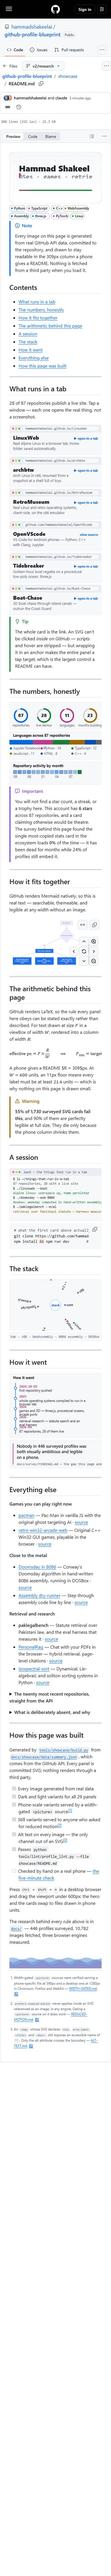
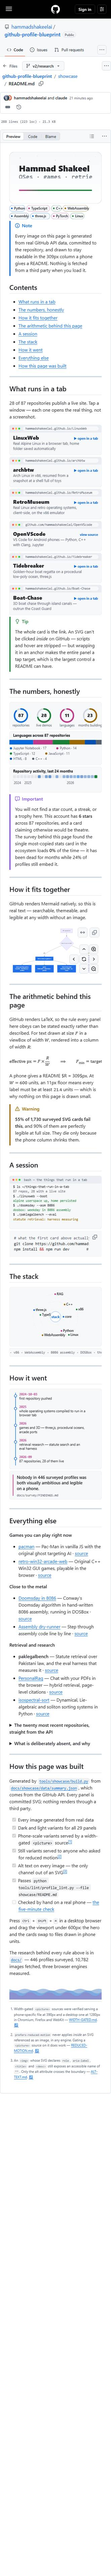
showcase: centre orbit labels under their nodes so none crosses the hub

Changed region(s): [[0.0909, 0.2801, 0.9091, 0.8092], [0.8485, 0.4668, 0.8788, 0.498]]

diff --git a/tools/showcase/panels.py b/tools/showcase/panels.py
@@ -280,7 +280,7 @@ def orbit(p, rings: list[list[str]], width: int = W) -> str:
     # by the longest label's width — otherwise the outermost words are clipped.
     size = max(20, floor_for(width))
     longest = max((len(l) for ring in rings for l in ring), default=6)
-    margin = 18 + longest * size * 0.58
+    margin = 18 + longest * size * 0.58 / 2     # centred, so half a label each side
     outer = max(70.0, width / 2 - margin)
     inner = min(52.0, outer)
     step = (outer - inner) / max(len(rings) - 1, 1)
@@ -298,7 +298,7 @@ def orbit(p, rings: list[list[str]], width: int = W) -> str:
             # The ring carries each label around it; an inner group turns the
             # opposite way at the same rate so the word stays upright all the
             # way round, instead of going over on its head at the far side.
-            label_svg = text(10, 6, label, 20, p["text"], 600, canvas=width)
+            label_svg = text(0, 26, label, 20, p["text"], 600, anchor="middle", canvas=width)
             if ri == 0:
                 body.append(
                     f'<g transform="rotate({start} {cx} {cy})">'
@@ -316,8 +316,8 @@ def orbit(p, rings: list[list[str]], width: int = W) -> str:
                     f'from="{-start} 0 0" to="{-start - 360} 0 0" dur="{dur}s" '
                     f'repeatCount="indefinite"/>{label_svg}</g>'
                     f'</g></g>')
-    body.append(f'<circle cx="{cx}" cy="{cy}" r="34" fill="{p["bg"]}" stroke="{p["accent"]}"/>')
-    body.append(text(cx, cy + 8, "stack", 22, p["accent"], 700, anchor="middle", canvas=width))
+    body.append(f'<circle cx="{cx}" cy="{cy}" r="26" fill="{p["bg"]}" stroke="{p["accent"]}"/>')
+    body.append(text(cx, cy + 7, "core", 22, p["accent"], 700, anchor="middle", canvas=width))
     return svg(width, h, "".join(body),
                "Concentric rings of technologies orbiting a centre labelled stack: "
                + "; ".join(", ".join(r) for r in rings))

diff --git a/tools/showcase/build.py b/tools/showcase/build.py
@@ -143,7 +143,7 @@ def build_assets(d: dict, projects: list[dict]) -> None:
         ("cmd", "./paklegalbench --eval"),
         ("warn", "statute retrieval: harness measuring"),
     ]))
-    write("orbit", lambda p: P.orbit(p, [["core"], ["Python", "TypeScript", "C++"],
+    write("orbit", lambda p: P.orbit(p, [["Python", "TypeScript", "C++"],
                                          ["Linux", "WebAssembly", "three.js", "RAG", "x86"]]))
     write("timeline", lambda p: P.timeline(p, title=None, events=[
         (d["first_repo"], "first repository pushed"),
@@ -336,7 +336,7 @@ def readme(d: dict, projects: list[dict]) -> str:
 
     A("## The stack")
     A("")
-    A(picture("orbit", "Concentric rings of technologies orbiting a centre labelled core"))
+    A(picture("orbit", "Two rings of technologies orbiting a centre labelled core: Python, TypeScript and C++ inside; Linux, WebAssembly, three.js, RAG and x86 outside"))
     A("")
     A(picture("marquee", "A scrolling ticker of technologies", still="marquee-still"))
     A("")

diff --git a/showcase/README.md b/showcase/README.md
@@ -168,7 +168,7 @@ npm install && npm run dev        # Alpine userspace, in a tab, home folder pers
 <picture>
   <source media="(prefers-color-scheme: dark)" srcset="https://raw.githubusercontent.com/hammadshakeelai/github-profile-blueprint/v2/research/showcase/assets/orbit-dark.svg">
   <source media="(prefers-color-scheme: light)" srcset="https://raw.githubusercontent.com/hammadshakeelai/github-profile-blueprint/v2/research/showcase/assets/orbit-light.svg">
-  <img alt="Concentric rings of technologies orbiting a centre labelled core" src="https://raw.githubusercontent.com/hammadshakeelai/github-profile-blueprint/v2/research/showcase/assets/orbit-dark.svg" width="600">
+  <img alt="Two rings of technologies orbiting a centre labelled core: Python, TypeScript and C++ inside; Linux, WebAssembly, three.js, RAG and x86 outside" src="https://raw.githubusercontent.com/hammadshakeelai/github-profile-blueprint/v2/research/showcase/assets/orbit-dark.svg" width="600">
 </picture>
 
 <picture>
